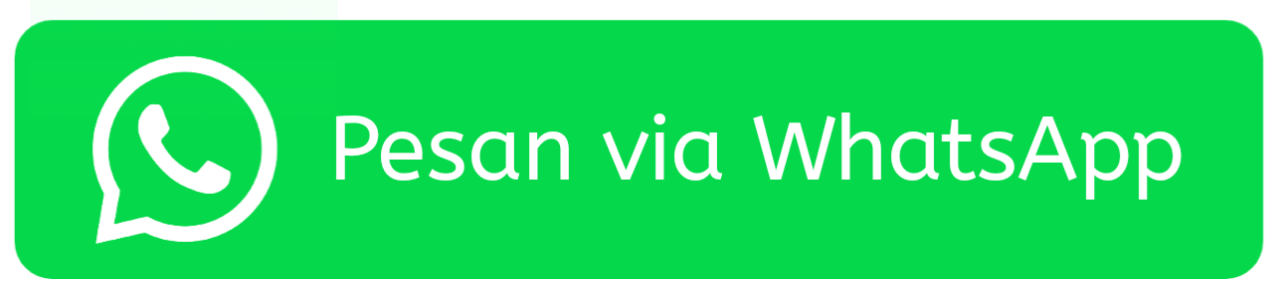
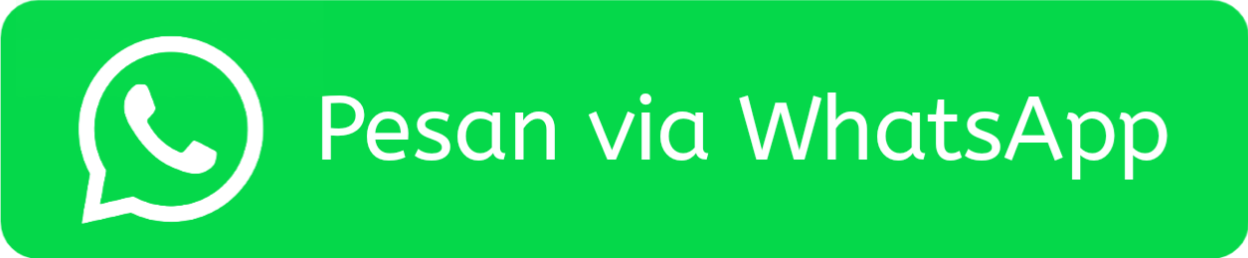
button

Changed region(s): [[0.0, 0.0, 1.0, 1.0], [0.25, 0.3411, 0.9375, 0.7132], [0.0625, 0.124, 0.2188, 0.8682]]

diff --git a/enlarge-screen.html b/enlarge-screen.html
@@ -23,7 +23,7 @@
         #progress {
             transition: 0.5s;
             transform: translateY(-19px);
-            background-color: rgba(0, 200, 0, 0.7);
+            background-color: orange;
             height: 100%;
             width: 0%;
         }
@@ -57,10 +57,9 @@
     <img src="enlargescreen/4.jpg" width="100%">
     <img src="enlargescreen/5.jpg" width="100%">
     <img src="enlargescreen/6.jpg" width="100%">
-    
     <div>
-    
-    </div>
+        <h style="font-size: larger;text-align: center;line-height: 3rem;">Bisa COD ke Seluruh Indonesi</h>
+        </div>
     
     <div style="text-align:center;">
         <div style="text-align:center;">
@@ -94,7 +93,7 @@
 
                 time_left = 60 * 1;
                 progress.style.width = "100%";
-                timeleft.innerText = "360 Detik Lagi";
+                timeleft.innerText = "60 Detik Lagi";
             }
         }, 1000);
     </script>
@@ -102,14 +101,15 @@
     <div class="as-console-wrapper">
         <div class="as-console"></div>
     </div>
-    <div style="text-align: center;margin-top: 0rem;margin-bottom: 0rem;font-size: larger;">
-        <img src="gelasajaib/arrow.gif" width="20%">
+    <div style="text-align: center;margin-top: 1.5rem;margin-bottom: 0rem;font-size: larger;">
+        <img style="rotate: 90deg;" src="enlargescreen/arrow.gif" width="20%">
+        <img style="rotate: 90deg;" src="enlargescreen/arrow.gif" width="20%">
+        <img style="rotate: 90deg;" src="enlargescreen/arrow.gif" width="20%">
     </div>
-    <h style="font-size: larger;text-align: center;">Bisa COD ke Seluruh Indonesi</h>
     <div style="text-align: center;">
         <a id="tombol"
             href="https://wa.me/+628989392430?text=Hallo%20kak%2C%20Saya%20mau%20ambil%20Promo%20Lensa%20Enlarge%20Screen%203D%20HD,%20apakah%20saya%20masih%20kebagian%20Promonya?">
-            <img src="selang/tombol2.png" width="50%">
+            <img class="shadow" src="enlargescreen/tombol.gif" width="75%">
         </a>
     </div>
     <div style="text-align: center;margin-top: 1.5rem;margin-bottom: 0.5rem;">
